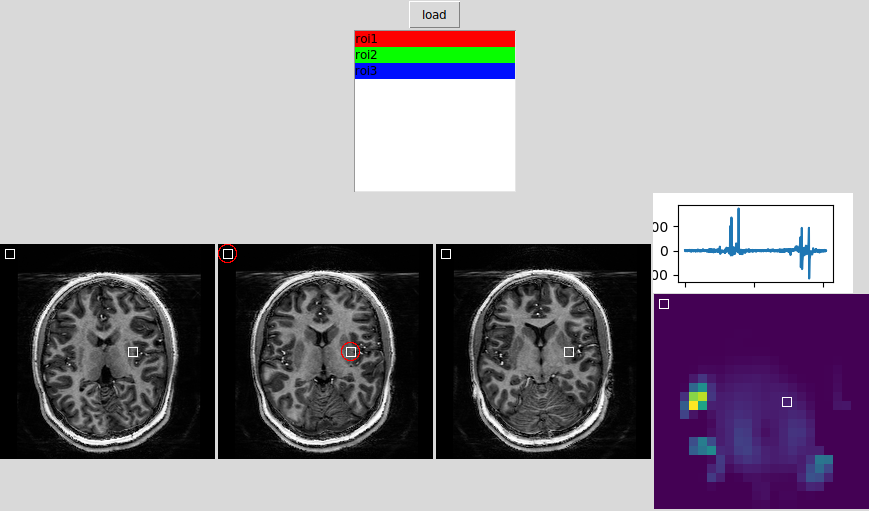
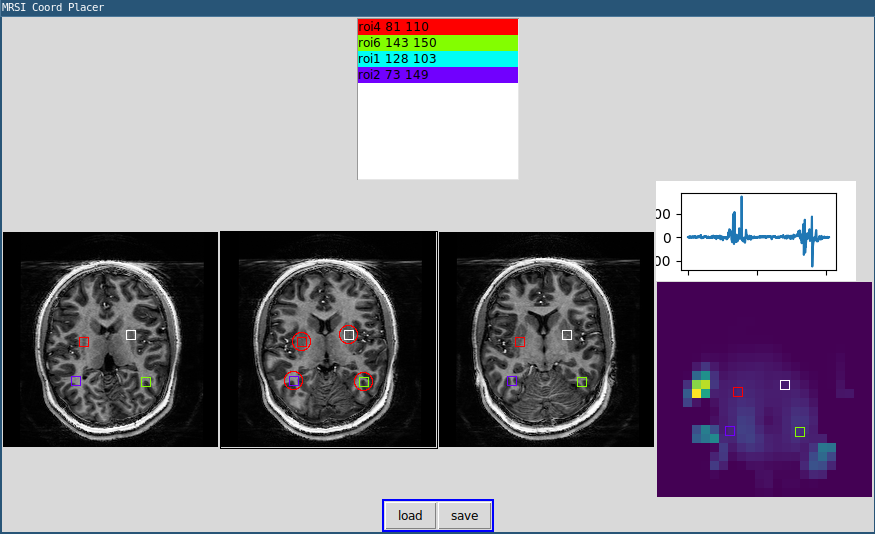
✨ read rois, gui takes args, update screenshot

diff --git a/grid.py b/grid.py
@@ -52,12 +52,13 @@ class ROI:
 
 
 class App(tk.Frame):
-    def __init__(self, master=None):
+    def __init__(self, master=None, roixy_list=None, ref=None, si=None):
         super().__init__(master)
         self.master = master
+        self.master.title("MRSI Coord Placer")
 
         # INIT
-        self.fnames = {"t1": None, "si": None, "gm": None, "roixy": None}
+        self.fnames = {"t1": ref, "si": si, "gm": None}
         self.imgs = {"ax-": None, "ax0": None, "ax+": None, "si": None}
         self.i_curroi = tk.IntVar(self)
         self.coords = None  # [ROI('roi1',[x, y])...]
@@ -66,6 +67,8 @@ class App(tk.Frame):
         self.scout = None  # holds scout resolution
 
         # DIMS
+        # TODO: these are for 7T MRSI. could be setting somewhere
+        #       instead of hardcoded
         self.pixdim = (216, 216, 99)
         self.voxdim = (9, 9, 10)
         self.sires = (24, 24)
@@ -77,8 +80,9 @@ class App(tk.Frame):
         # set by set_coords during load
         # needed for label update and to match box outline to listbox bg
         self.hexcolors = []
+        self.set_coords(roixy_list)
 
-        # remove me? - dont autoload
+        # autoload when start if t1 and si are defined
         self.load()
 
     def inc_roi_selected(self, step=1):
@@ -272,13 +276,12 @@ class App(tk.Frame):
 
     def load(self):
         """read imaging files"""
-        self.fnames["t1"] = "test/data/rorig.nii"
-        self.fnames["si"] = "test/data/siarray.1.1"
-        # TODO: load from file (or default to corner)
-        self.set_coords()
+        if not self.fnames['t1'] or not self.fnames['si']:
+            print("WARNING: missing t1 or si. cannot load")
+            return
         self.read_ni()
         self.update()
-        self.scout = Scout(None, res=216)
+        self.scout = Scout(None, res=self.pixdim[0]) # 216
 
     def save_spec(self, outdir="out"):
         "write positioned coordinates recon spectrum.xx.yy files"
@@ -287,12 +290,12 @@ class App(tk.Frame):
         s = self.siarray.ReconCoordinates3(self.scout, pos, outdir)
         print(s)
 
-    def set_coords(self):
-        self.coords = [
-            ROI("roi1", [10, 10]),
-            ROI("roi2", [10, 10]),
-            ROI("roi3", [10, 10]),
-        ]
+    def set_coords(self, roixy_list=None):
+        if not roixy_list:
+            print("WARNING: no rois to show!")
+            return
+
+        self.coords = [ROI(label, [x, y]) for (label,x,y) in roixy_list]
         mn = self.roiselect
         mn.delete(0, "end")
 
@@ -301,8 +304,8 @@ class App(tk.Frame):
         self.hexcolors = [
             "#%02x%02x%02x" % tuple(rgb[0:3]) for rgb in colors.astype(int).tolist()
         ]
-        for i, roi in enumerate([x.roi for x in self.coords]):
-            mn.insert("end", roi)
+        for i, roi in enumerate(self.coords):
+            mn.insert("end", roi.label())
             mn.itemconfig(i, {"bg": self.hexcolors[i]})
             # mn.add_command(label=roi, command=setroi(i))
 
@@ -317,12 +320,69 @@ class App(tk.Frame):
         self.canvas[canvas_key].focus_set()
 
 
+def read_rois(rois_list=[], roi_file=None):
+    """read rois. assign default x,y if not given (list)
+    and/or read from tab delem file with cols: roi,x,y"""
+    xdef,ydef, rois = 0, 0, []
+    #rois = [ [roi,xdef+=10,ydef+=10] for roi in pargs.roi_list]
+    for roi in rois_list:
+        xdef += 5
+        ydef += 5
+        rois.append([roi, xdef, ydef])
+
+    if roi_file:
+        with open(roi_file, "r") as f:
+            while l := f.readline():
+                roi, x, y = l.split('\t')
+                rois.append([roi,float(x),float(y)])
+    return rois
+
+
+def parse_args(args):
+    "read arguments for displaying grid"
+    import argparse
+    parser = argparse.ArgumentParser(description="")
+    parser.add_argument('-r','--ref',
+                        dest="ref_fname",
+                        help="Scout aligned reference image")
+    parser.add_argument('-s','--siarray',
+                        dest="si_fname",
+                        help="MRSI siarray.1.1 file")
+    parser.add_argument('-i','--roi_initial',
+                        dest="roi_file",
+                        default=None,
+                        help="tab delim roi,x,y coordates. x,y are initial guesses")
+    parser.add_argument('-l', '--rois',
+                        dest="rois_list",
+                        nargs="+",
+                        default=[],
+                        help="roi labels if no initial guess, alt to --roi_initial")
+    parser.add_argument('-g','--gm_mask',
+                        dest="gm_file",
+                        default=None,
+                        help="gray matter mask. same res as reference image")
+
+    pargs = parser.parse_args(args)
+
+    rois = read_rois(pargs.rois_list, pargs.roi_file)
+    if not rois:
+        raise Exception("Must specify --rois or valid/nonempty --roi_initial file")
+
+    pargs.rois = rois
+
+    return pargs
+
+
 # TODO:
 #  * load GM+GM count
+#    - toggle gm mask
 #  * move to best GM
 #  * collision
 #  * right click for closest to click, not next num
+if __name__ == "__main__":
+    import sys
+    pargs = parse_args(sys.argv[1:])
 
-root = tk.Tk()
-app = App(master=root)
-app.mainloop()
+    root = tk.Tk()
+    app = App(master=root, roixy_list=pargs.rois, ref=pargs.ref_fname, si=pargs.si_fname)
+    app.mainloop()

diff --git a/test/test_roiread.py b/test/test_roiread.py
@@ -1,0 +1,7 @@
+import pytest
+import grid
+
+def test_read():
+    roi_xy = grid.read_rois(["roi4","roi5"], "test/data/roi_pos.txt")
+    assert(roi_xy[0] == ['roi4', 5, 5])
+    assert(roi_xy[2] == ['roi1', 112.0, 88.0])
